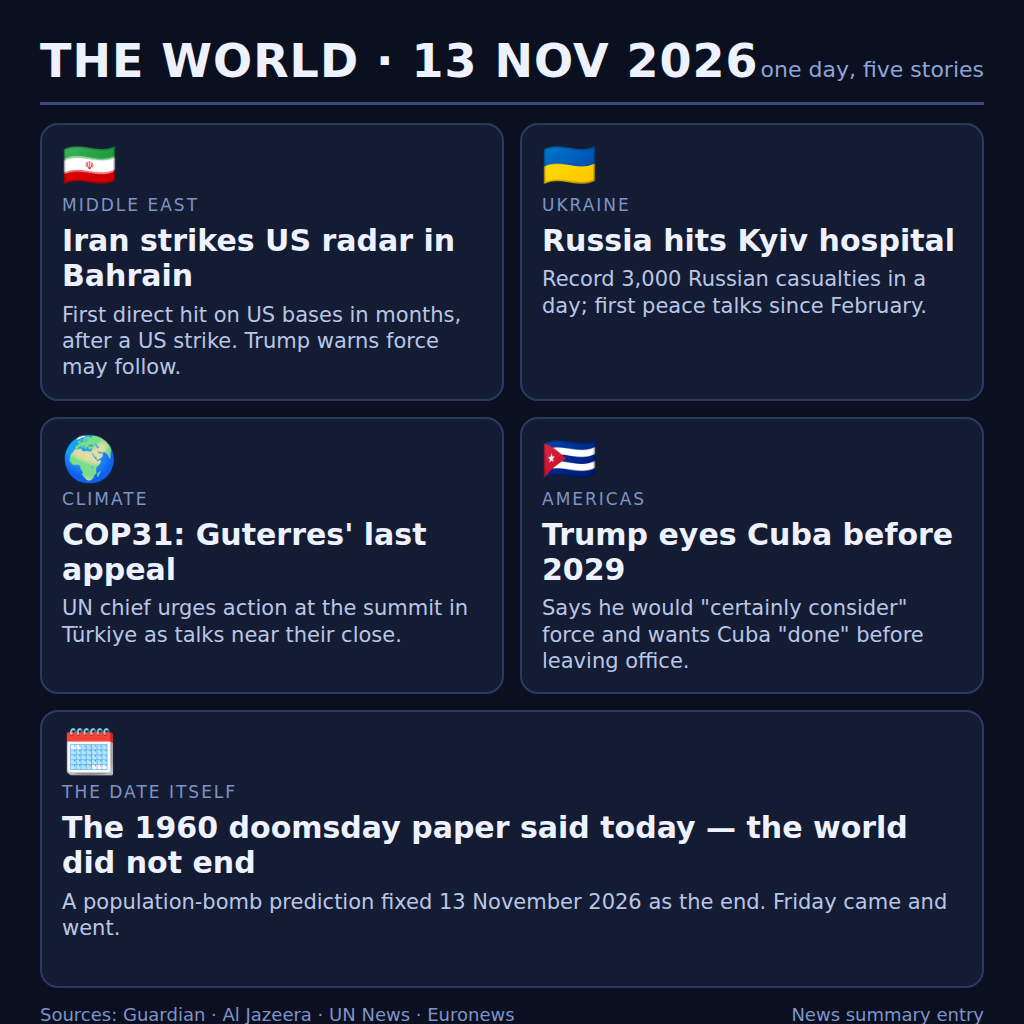
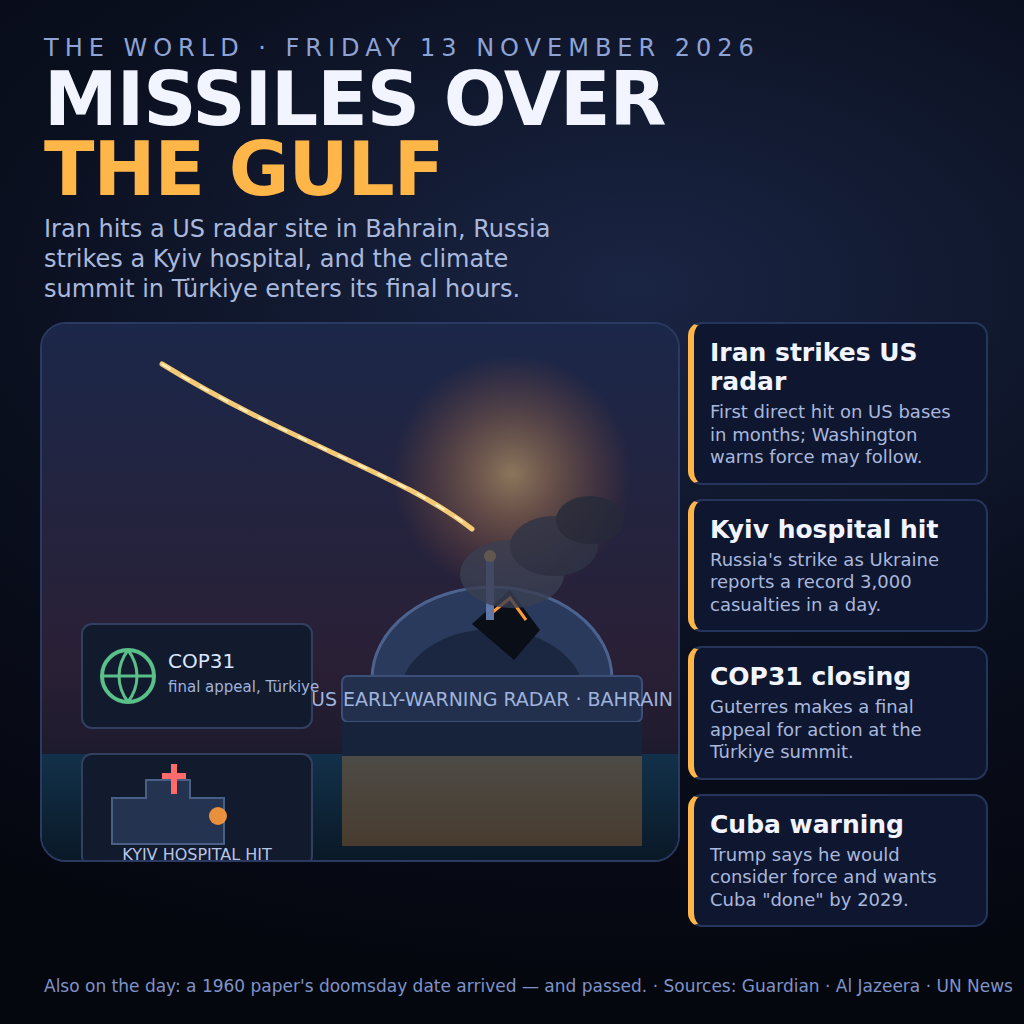
Hero-illustration poster for 13 November

diff --git a/poster2.html b/poster2.html
@@ -1,0 +1,91 @@
+<!doctype html>
+<html><head><meta charset="utf-8"><style>
+  *{margin:0;padding:0;box-sizing:border-box}
+  body{width:1024px;height:1024px;background:#080c18;color:#f2f5ff;font-family:"DejaVu Sans",Arial,sans-serif;overflow:hidden}
+  .poster{position:relative;width:1024px;height:1024px;background:
+     radial-gradient(1200px 700px at 62% 28%, #1a2544 0%, #0a0f1e 55%, #05070f 100%)}
+  .kicker{position:absolute;top:34px;left:44px;font-size:24px;letter-spacing:6px;color:#8ea3d6}
+  h1{position:absolute;top:64px;left:44px;font-size:74px;line-height:.95;letter-spacing:-1px}
+  h1 span{color:#ffb648}
+  .sub{position:absolute;top:214px;left:44px;font-size:24px;color:#a9b8dd;width:560px;line-height:1.25}
+  .hero{position:absolute;left:40px;top:322px;width:640px;height:540px;border-radius:26px;overflow:hidden;
+        border:2px solid #2b3a63;background:linear-gradient(180deg,#111a30,#0a1020)}
+  .labels{position:absolute;right:36px;top:322px;width:300px;display:flex;flex-direction:column;gap:14px}
+  .lab{background:#0f1730;border:2px solid #26355c;border-left:6px solid #ffb648;border-radius:14px;padding:14px 16px}
+  .lab b{display:block;font-size:25px;margin-bottom:5px}
+  .lab i{font-style:normal;font-size:18px;color:#a9b8dd;line-height:1.25}
+  .foot{position:absolute;left:44px;bottom:28px;font-size:17px;color:#7f93c8}
+</style></head><body>
+<div class="poster">
+  <div class="kicker">THE WORLD · FRIDAY 13 NOVEMBER 2026</div>
+  <h1>MISSILES OVER<br><span>THE GULF</span></h1>
+  <div class="sub">Iran hits a US radar site in Bahrain, Russia strikes a Kyiv hospital, and the climate summit in Türkiye enters its final hours.</div>
+
+  <div class="hero">
+    <svg viewBox="0 0 640 560" width="640" height="560">
+      <defs>
+        <linearGradient id="sky" x1="0" y1="0" x2="0" y2="1">
+          <stop offset="0" stop-color="#1b2749"/><stop offset="0.6" stop-color="#2a2036"/><stop offset="1" stop-color="#0d1220"/>
+        </linearGradient>
+        <radialGradient id="glow" cx="0.5" cy="0.5" r="0.5">
+          <stop offset="0" stop-color="#ffd27a" stop-opacity="0.95"/><stop offset="1" stop-color="#ff7a2f" stop-opacity="0"/>
+        </radialGradient>
+        <linearGradient id="sea" x1="0" y1="0" x2="0" y2="1">
+          <stop offset="0" stop-color="#12314a"/><stop offset="1" stop-color="#08131f"/>
+        </linearGradient>
+      </defs>
+      <rect width="640" height="560" fill="url(#sky)"/>
+      <rect y="430" width="640" height="130" fill="url(#sea)"/>
+      <circle cx="470" cy="150" r="120" fill="url(#glow)" opacity="0.5"/>
+      <!-- incoming trail -->
+      <path d="M120 40 C 250 120, 360 150, 430 205" stroke="#ffd27a" stroke-width="5" fill="none" stroke-linecap="round" opacity="0.95"/>
+      <path d="M120 40 C 250 120, 360 150, 430 205" stroke="#fff3c4" stroke-width="2" fill="none" stroke-dasharray="10 12"/>
+      <!-- radar dome, damaged -->
+      <path d="M330 355 A 120 92 0 0 1 570 355 Z" fill="#2a3a5c" stroke="#4d638f" stroke-width="3"/>
+      <path d="M362 352 A 92 66 0 0 1 538 352 Z" fill="#1b2740"/>
+      <!-- breach -->
+      <path d="M430 300 l38 -34 l30 40 l-26 30 z" fill="#0a0e17"/>
+      <path d="M446 292 l22 -18 l16 22" stroke="#ff9a3c" stroke-width="3" fill="none"/>
+      <!-- mast -->
+      <rect x="444" y="236" width="8" height="60" fill="#5f77a6"/>
+      <circle cx="448" cy="232" r="6" fill="#ffb648"/>
+      <!-- smoke -->
+      <g opacity="0.8">
+        <ellipse cx="470" cy="250" rx="52" ry="34" fill="#3a3f52"/>
+        <ellipse cx="512" cy="222" rx="44" ry="30" fill="#2f3446"/>
+        <ellipse cx="548" cy="196" rx="34" ry="24" fill="#262a3a"/>
+      </g>
+      <!-- base -->
+      <rect x="300" y="352" width="300" height="46" rx="6" fill="#22304e" stroke="#3b4f79" stroke-width="2"/>
+      <text x="450" y="382" text-anchor="middle" fill="#9fb3dd" font-size="19" font-family="DejaVu Sans">US EARLY-WARNING RADAR · BAHRAIN</text>
+      <rect x="300" y="398" width="300" height="34" fill="#16233b"/>
+      <!-- sea reflection -->
+      <g opacity="0.25"><rect x="300" y="432" width="300" height="90" fill="#ff9a3c"/></g>
+      <!-- second event strip: Kyiv hospital -->
+      <g>
+        <rect x="40" y="430" width="230" height="112" rx="10" fill="#121a2e" stroke="#31405f" stroke-width="2"/>
+        <path d="M70 520 l0 -46 l34 0 l0 -18 l44 0 l0 18 l34 0 l0 46 z" fill="#243450" stroke="#4a5f86" stroke-width="2"/>
+        <path d="M132 470 v-30 m-12 12 h24" stroke="#ff6b6b" stroke-width="6"/>
+        <circle cx="176" cy="492" r="9" fill="#ff9a3c" opacity="0.9"/>
+        <text x="155" y="536" text-anchor="middle" fill="#b8c6e6" font-size="16" font-family="DejaVu Sans">KYIV HOSPITAL HIT</text>
+      </g>
+      <!-- COP31 badge -->
+      <g>
+        <rect x="40" y="300" width="230" height="104" rx="10" fill="#121a2e" stroke="#31405f" stroke-width="2"/>
+        <circle cx="86" cy="352" r="26" fill="none" stroke="#59c08a" stroke-width="4"/>
+        <path d="M62 352 h48 M86 326 c 12 16 12 36 0 52 M86 326 c -12 16 -12 36 0 52" stroke="#59c08a" stroke-width="3" fill="none"/>
+        <text x="126" y="344" fill="#dbe6ff" font-size="20" font-family="DejaVu Sans">COP31</text>
+        <text x="126" y="368" fill="#9fb3dd" font-size="15" font-family="DejaVu Sans">final appeal, Türkiye</text>
+      </g>
+    </svg>
+  </div>
+
+  <div class="labels">
+    <div class="lab"><b>Iran strikes US radar</b><i>First direct hit on US bases in months; Washington warns force may follow.</i></div>
+    <div class="lab"><b>Kyiv hospital hit</b><i>Russia's strike as Ukraine reports a record 3,000 casualties in a day.</i></div>
+    <div class="lab"><b>COP31 closing</b><i>Guterres makes a final appeal for action at the Türkiye summit.</i></div>
+    <div class="lab"><b>Cuba warning</b><i>Trump says he would consider force and wants Cuba "done" by 2029.</i></div>
+  </div>
+
+  <div class="foot">Also on the day: a 1960 paper's doomsday date arrived — and passed. · Sources: Guardian · Al Jazeera · UN News</div>
+</div></body></html>

diff --git a/main.ts b/main.ts
@@ -1,6 +1,6 @@
 /**
  * Competition: news-image-01 (make.fun)
- * Entry generator for the 13 November 2026 news poster challenge.
+ * Entry generator for the 13 November 2026 hero-illustration poster.
  * Copies ./entry.png into MAKEFUN_OUTPUT_DIR (defaults to /output).
  */
 import { mkdirSync, readFileSync, writeFileSync } from "node:fs";
